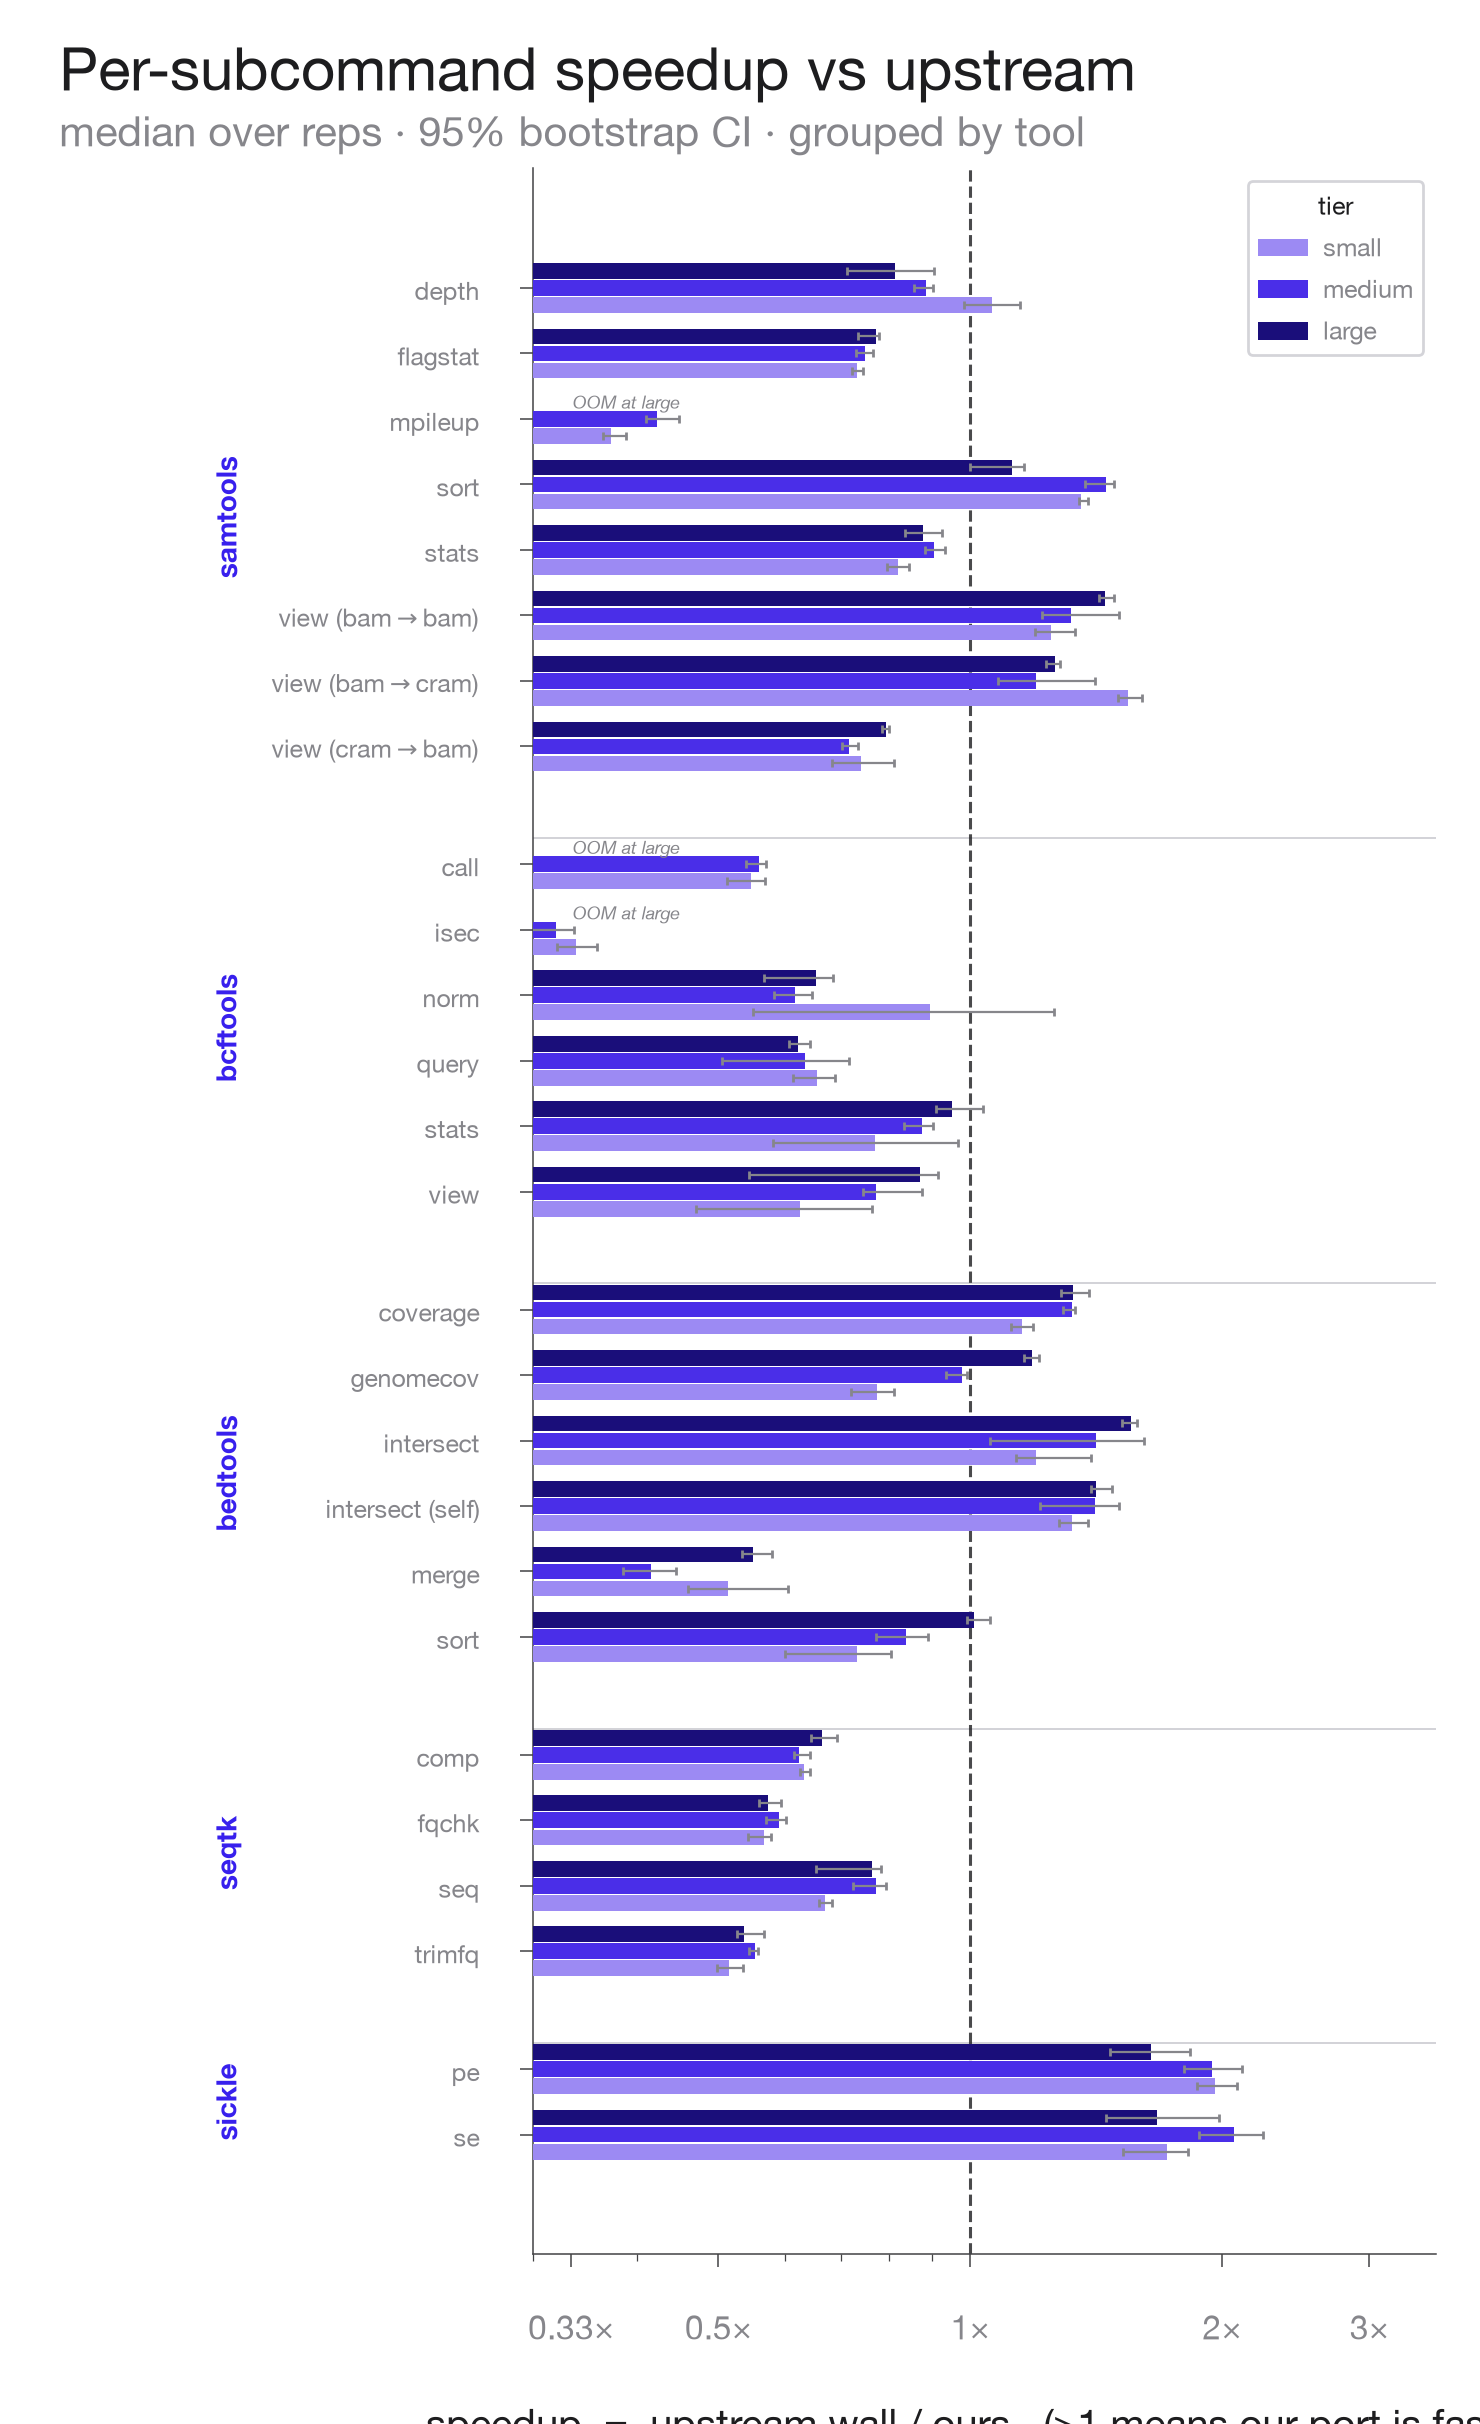
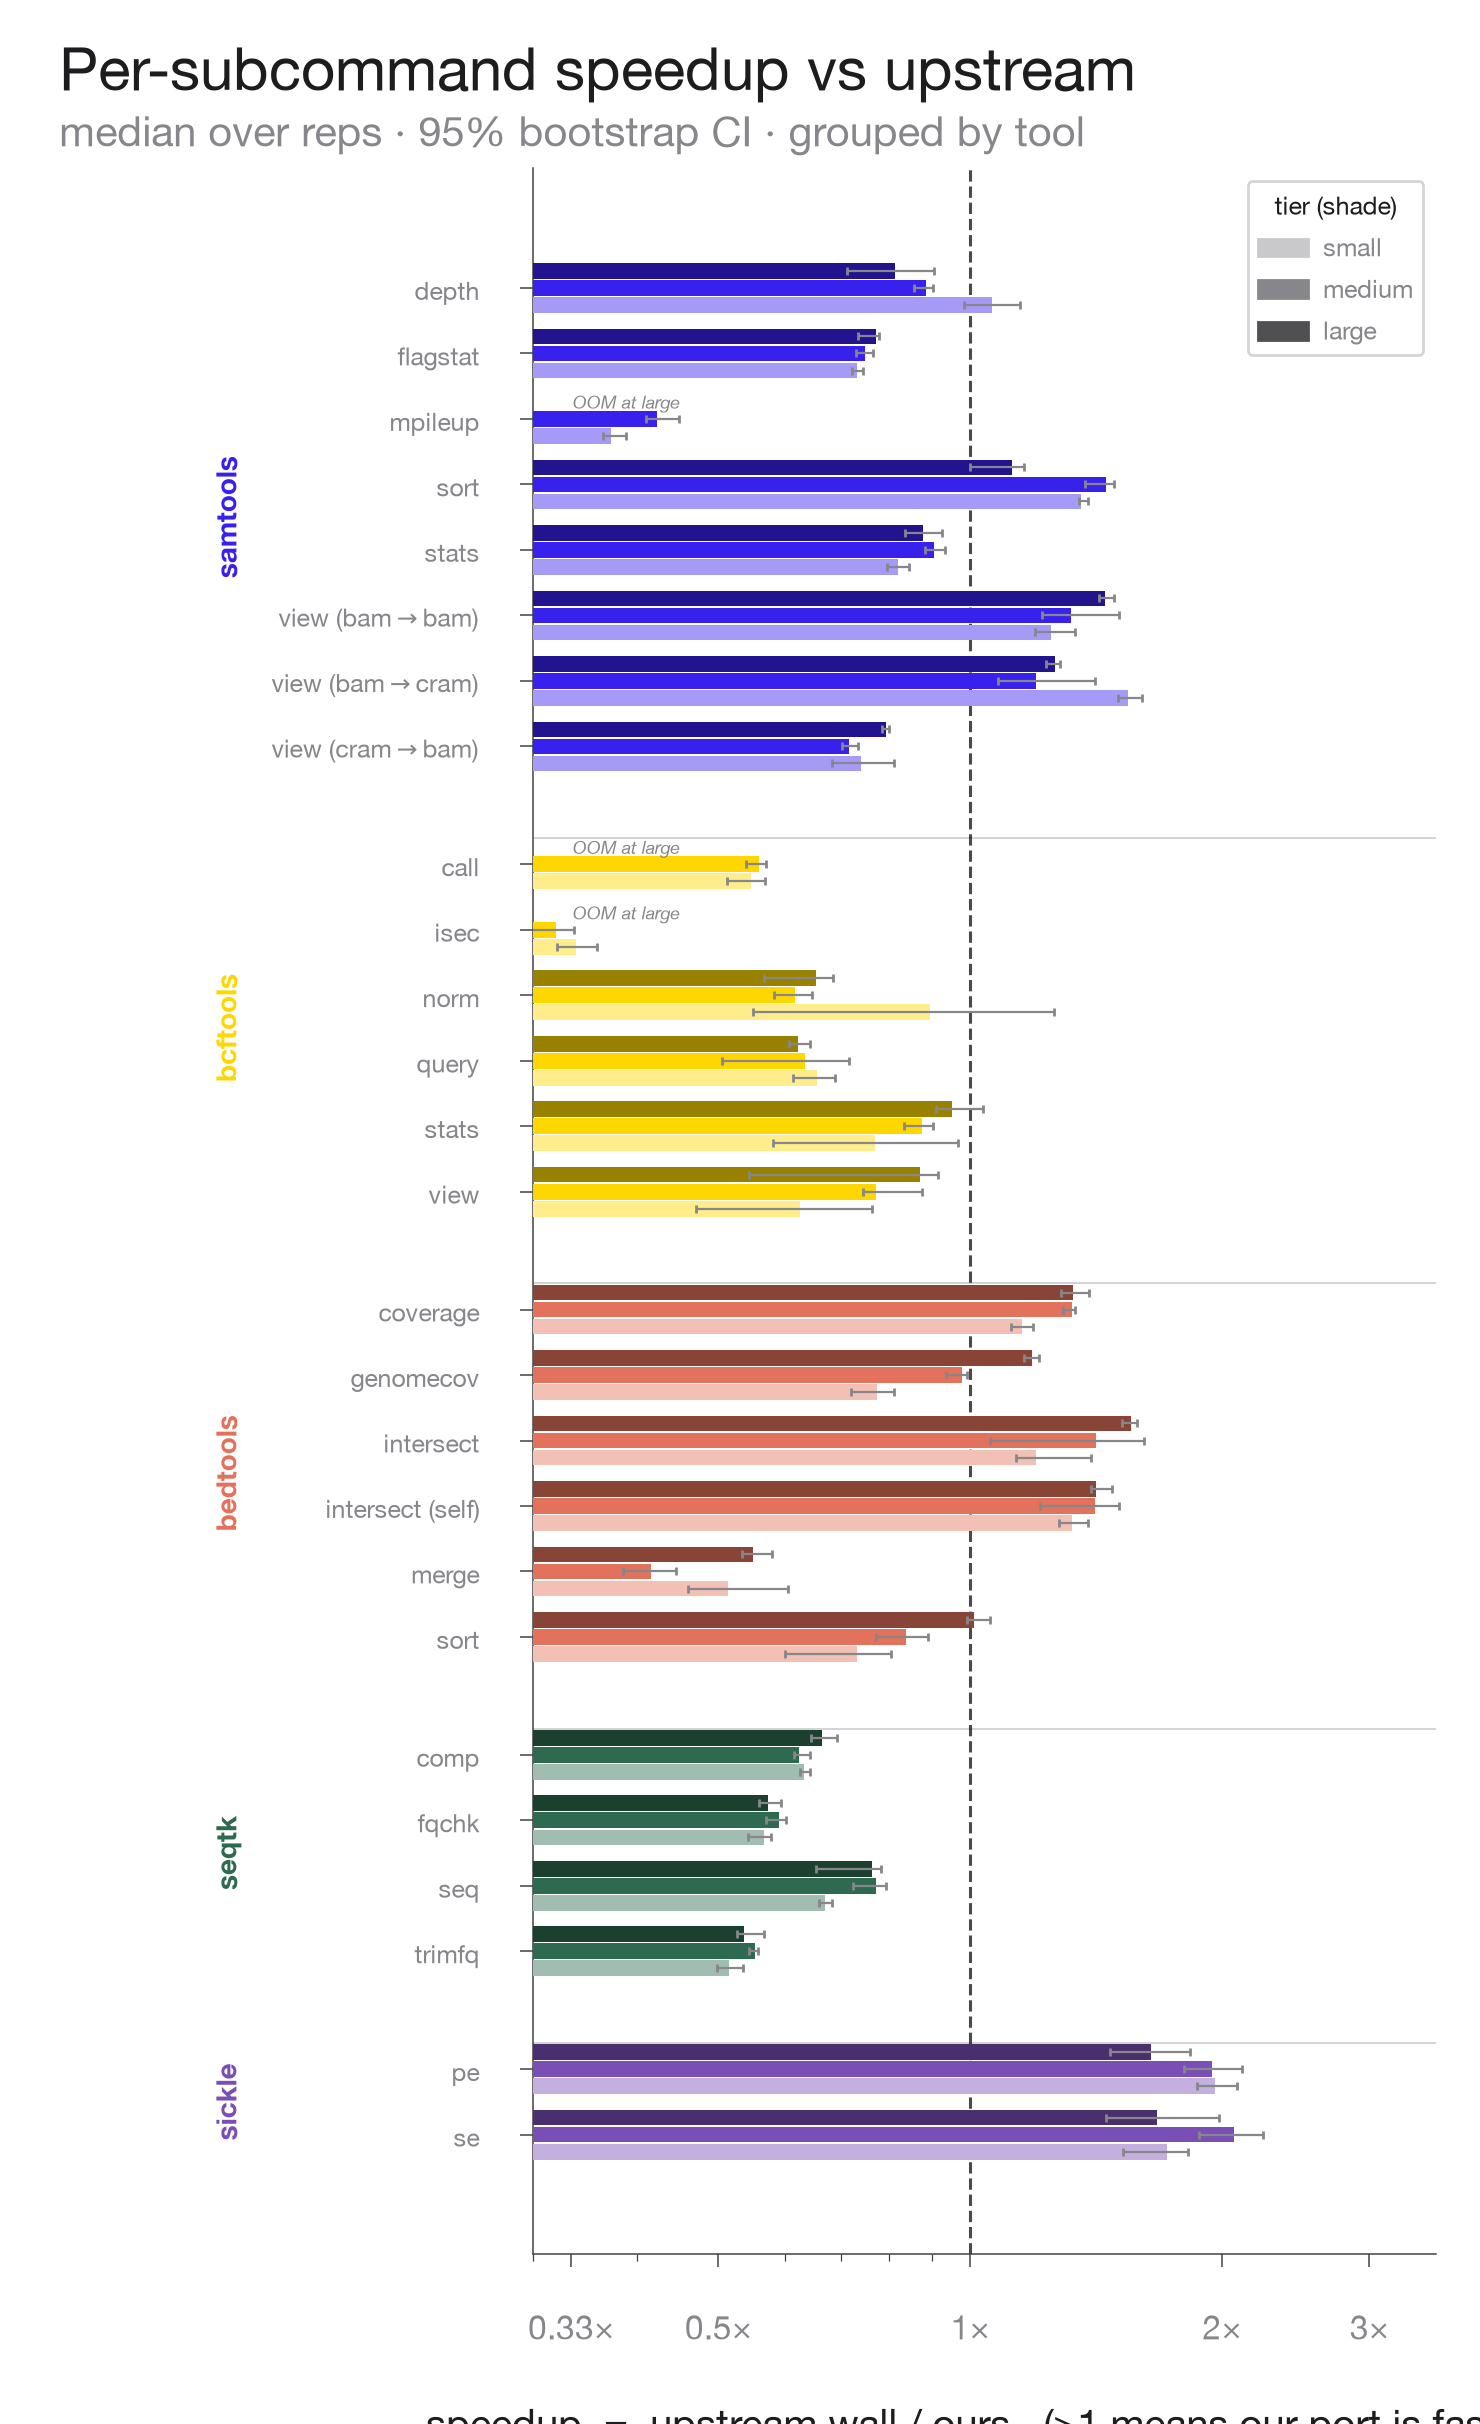
fig_speedup: colour bars by tool (matching fig_scaling), tier as shade
The speedup bars were coloured by tier (a blue ramp); recolour them by tool
family using the same palette as fig_scaling (samtools blue, bcftools gold,
bedtools terracotta, seqtk green, sickle violet), with the three tiers shown
as light->dark shades of each tool's hue. Tool-family labels are coloured to
match. The tier legend uses a neutral grey shade ramp.

diff --git a/analysis/plot_perf_parity.py b/analysis/plot_perf_parity.py
@@ -96,6 +96,18 @@ TOOL_COLOUR = {
 }
 # Cells that exceed the 12 GB box at the large tier (fat-node cells).
 OOM_AT_LARGE = {"sam_mpileup", "bcf_call", "bcf_isec"}
+# Tier is shown as a shade of the tool's hue (so the speedup figure shares the
+# scaling figure's per-tool colours): small = lightened, large = darkened.
+TIER_SHADE = {"small": 0.55, "medium": 0.0, "large": -0.40}
+
+
+def shade(hexc, amt):
+    """Lighten (amt>0, toward white) or darken (amt<0, toward black) a colour."""
+    import matplotlib.colors as mcolors
+    r, g, b = mcolors.to_rgb(hexc)
+    if amt >= 0:
+        return (r + (1 - r) * amt, g + (1 - g) * amt, b + (1 - b) * amt)
+    return (r * (1 + amt), g * (1 + amt), b * (1 + amt))
 
 
 def load_cells():
@@ -161,7 +173,7 @@ def fig_speedup(cells):
     bar_h = 0.78 / n_t
     fig, ax = plt.subplots(figsize=(7.4, max(6.5, 0.42 * len(rows) + 1.2)))
     for ti, tier in enumerate(TIERS):
-        ys, xs, los, his = [], [], [], []
+        ys, xs, los, his, cols = [], [], [], [], []
         for (tool, name), yb in zip(rows, ypos):
             c = by[name].get(tier)
             if not c:
@@ -172,9 +184,10 @@ def fig_speedup(cells):
             xs.append(s)
             los.append(max(s - lo, 0))
             his.append(max(hi - s, 0))
-        ax.barh(ys, xs, height=bar_h * 0.92, color=TIER_COLOUR[tier],
+            cols.append(shade(TOOL_COLOUR[tool], TIER_SHADE[tier]))   # tool hue, tier shade
+        ax.barh(ys, xs, height=bar_h * 0.92, color=cols,
                 xerr=[los, his], ecolor=COLOURS["gray_48"], capsize=1.5,
-                error_kw={"lw": 0.8}, label=tier, zorder=3)
+                error_kw={"lw": 0.8}, zorder=3)
 
     # mark the cells that OOM at the large tier (fat-node cells) so the absent
     # large bar reads as intentional, not a data gap.
@@ -205,12 +218,17 @@ def fig_speedup(cells):
         ymid = sum(ys) / len(ys)
         ax.text(-0.34, ymid, tool, transform=ax.get_yaxis_transform(),
                 rotation=90, va="center", ha="center", fontsize=10,
-                fontweight="bold", color=COLOURS["primary"])
+                fontweight="bold", color=TOOL_COLOUR[tool])   # match the bar hue
     for sy in sep:
         ax.axhline(sy, color=COLOURS["gray_16"], lw=0.7, zorder=1)
 
-    ax.legend(title="tier", loc="upper right", frameon=True, framealpha=0.95,
-              edgecolor=COLOURS["gray_16"], fontsize=9, ncol=1, title_fontsize=9)
+    # tier legend: a neutral grey ramp conveys "lighter = small, darker = large"
+    # (each tool keeps its own hue; the shade encodes the tier).
+    import matplotlib.patches as mpatches
+    handles = [mpatches.Patch(color=shade("#86868B", TIER_SHADE[t]), label=t) for t in TIERS]
+    ax.legend(handles=handles, title="tier (shade)", loc="upper right", frameon=True,
+              framealpha=0.95, edgecolor=COLOURS["gray_16"], fontsize=9,
+              ncol=1, title_fontsize=9)
     fig.subplots_adjust(left=0.36, right=0.97, bottom=0.07, top=0.91)
     mj.title_block(fig, "Per-subcommand speedup vs upstream",
                    "median over reps · 95% bootstrap CI · grouped by tool",
